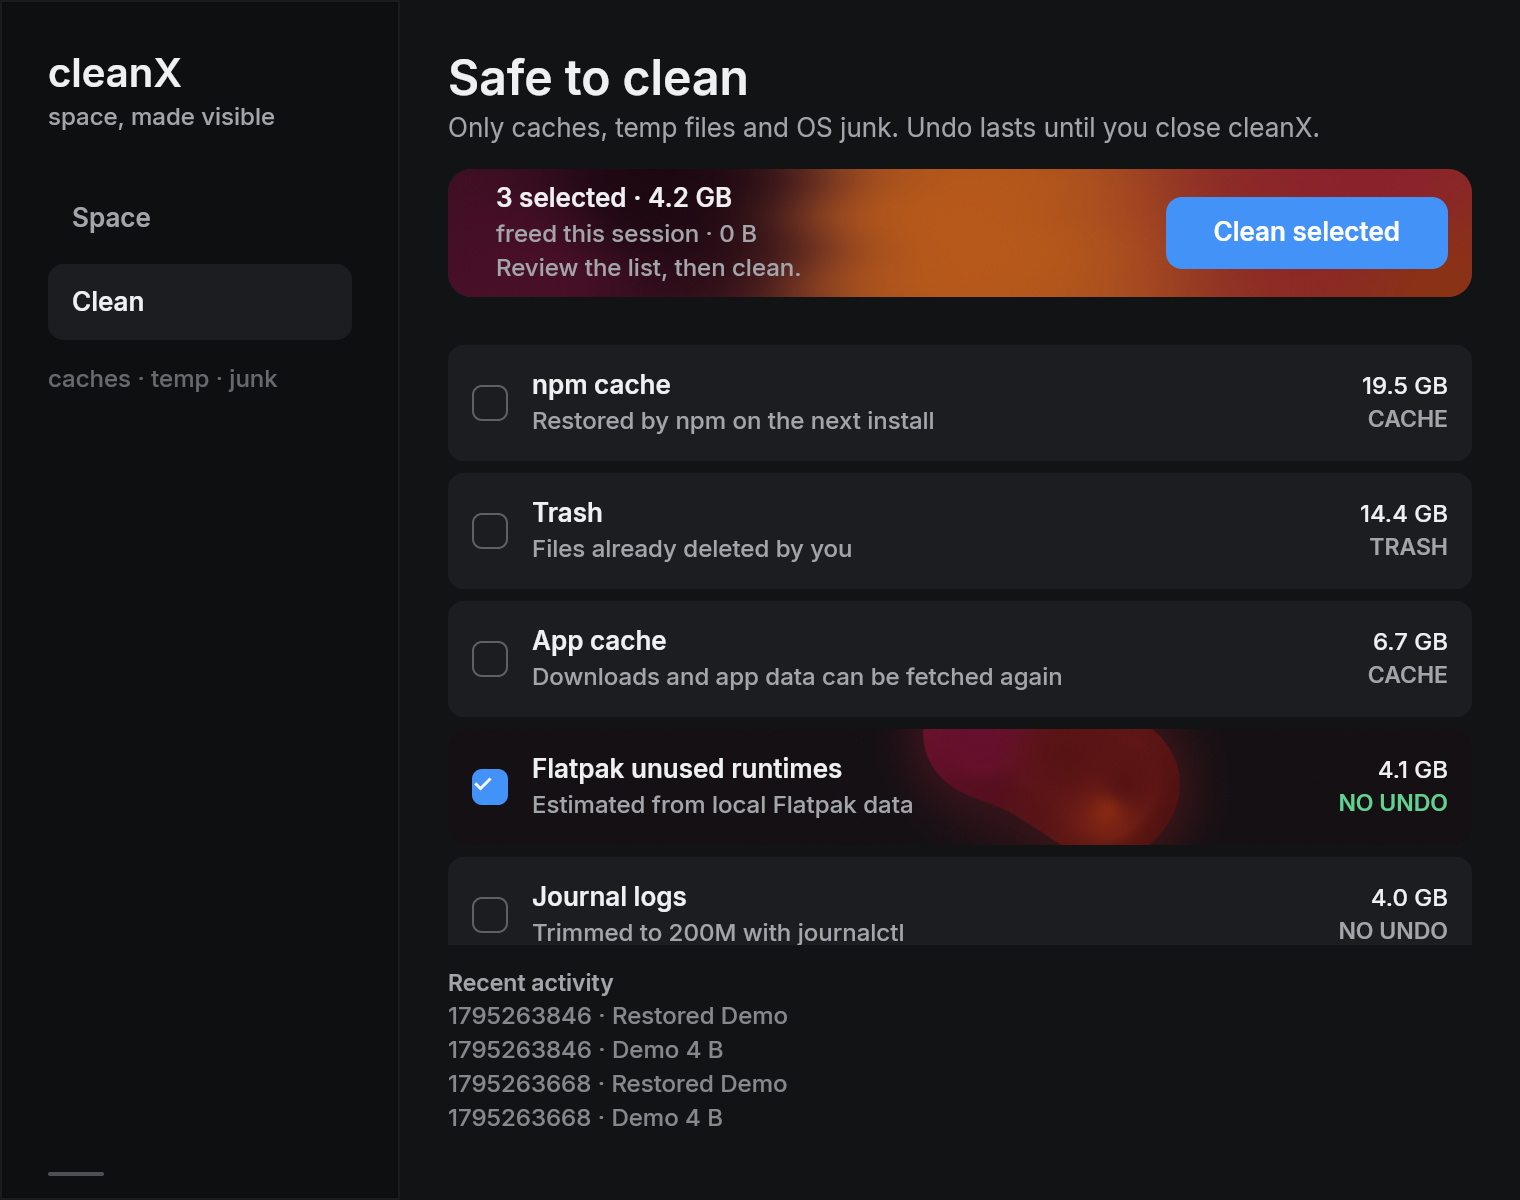
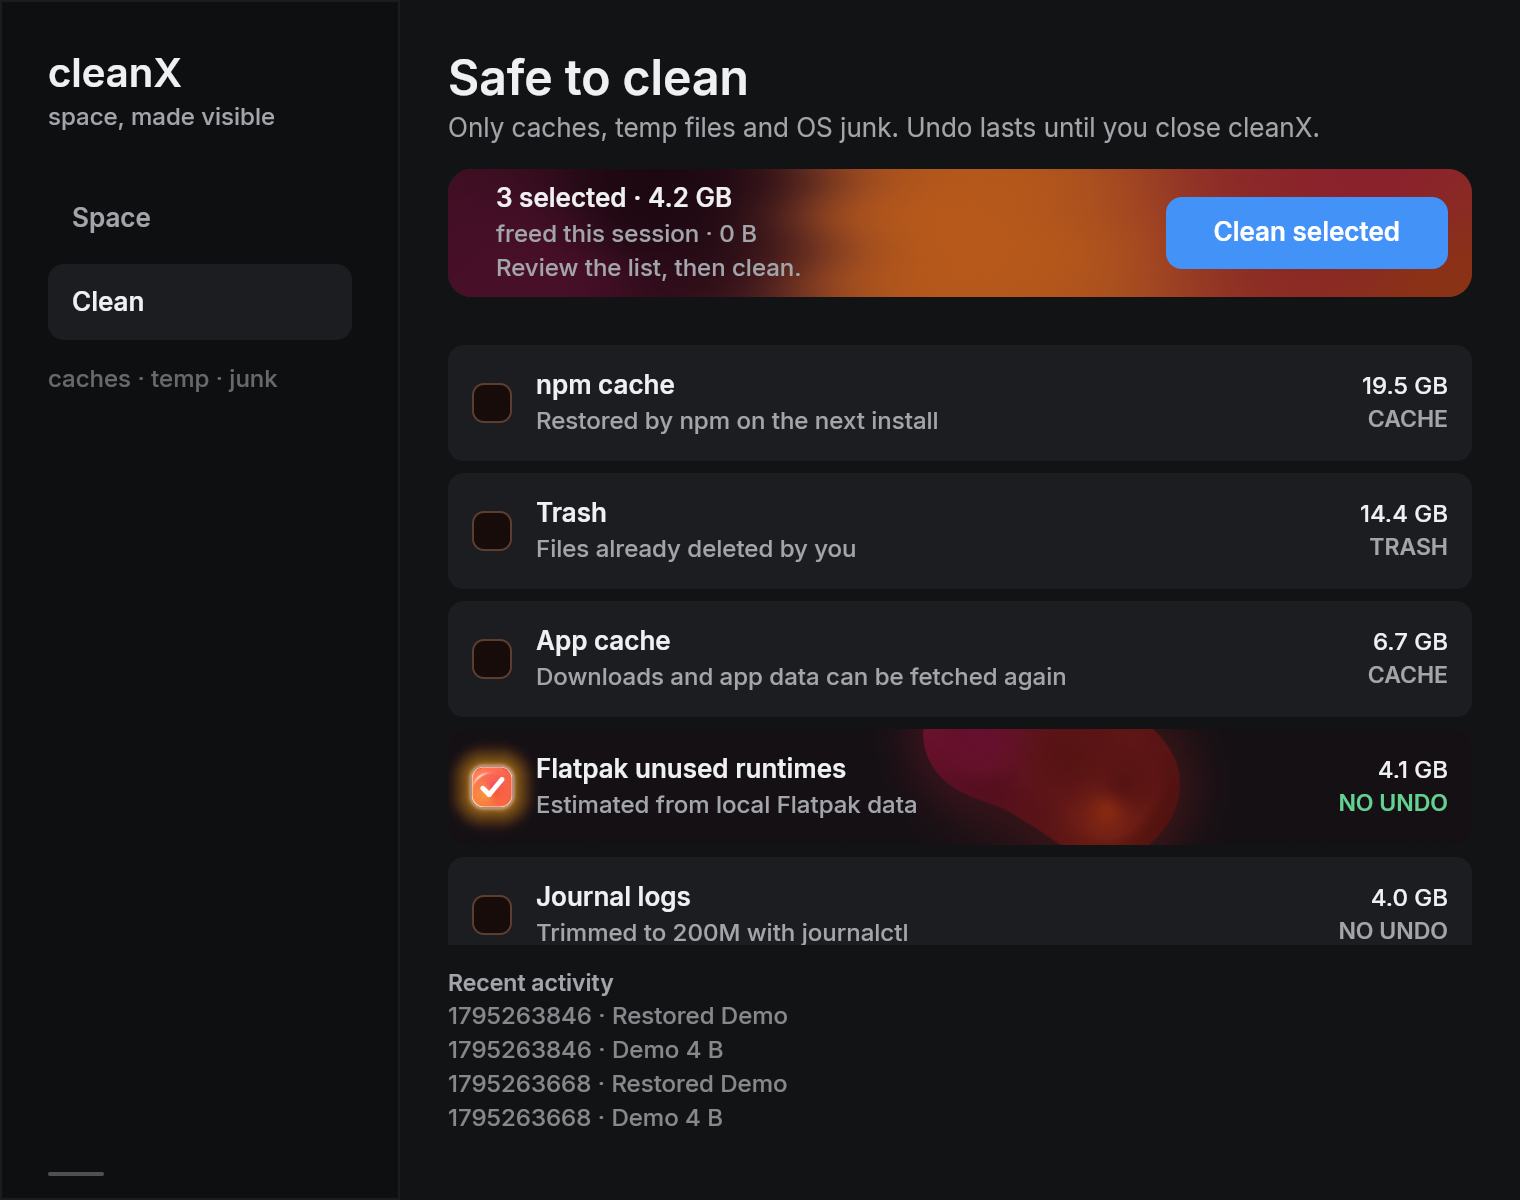
Give clean-list checkboxes a centered lava tick

diff --git a/src/main.rs b/src/main.rs
@@ -8,7 +8,9 @@ mod scan;
 mod session;
 
 use rune::tok::{self, TextStyle, motion, radius, space, type_};
-use rune::{AppSpec, Color, Cx, El, ScrollSpec, Shape, canvas, col, effect, el, oklch, row, text};
+use rune::{
+    AppSpec, Color, Cx, El, LineCap, ScrollSpec, Shape, canvas, col, effect, el, oklch, row, text,
+};
 
 #[derive(Clone, Copy, Debug, PartialEq, Eq)]
 enum Tab {
@@ -106,6 +108,26 @@ fn sunburst(progress: f32, hue: f32) -> Shape {
         );
     }
     shape
+}
+
+/// A vector tick. Centred on the view box so it stays balanced at any size.
+fn checkmark(size: f32, color: Color) -> Shape {
+    Shape::new()
+        .view_box(size, size)
+        .line(
+            [size * 0.27, size * 0.53],
+            [size * 0.43, size * 0.69],
+            size * 0.12,
+            LineCap::Round,
+            color,
+        )
+        .line(
+            [size * 0.43, size * 0.69],
+            [size * 0.75, size * 0.31],
+            size * 0.12,
+            LineCap::Round,
+            color,
+        )
 }
 
 fn view(s: &State, _: &mut Cx<State>) -> El {
@@ -625,6 +647,7 @@ fn clean_view(
                 .fill(card)
                 .hover(secondary.alpha(0.06))
                 .press(secondary.alpha(0.1))
+                .press_scale(0.985)
                 .focusable(true)
                 .on_press(move |s: &mut State| s.session.toggle(i))
                 .child(
@@ -637,26 +660,42 @@ fn clean_view(
                 )
                 .child(
                     el().key("check")
-                        .size(18.0, 18.0)
-                        .radius(5.0)
+                        .size(20.0, 20.0)
+                        .radius(radius::SM)
+                        .center()
                         .fill(if on {
-                            tok::accent(0, true)
+                            oklch(0.45, 0.15, 40.0)
                         } else {
-                            Color::TRANSPARENT
+                            oklch(0.17, 0.02, 35.0)
                         })
                         .border(
                             hair,
                             if on {
-                                tok::accent(0, true)
+                                oklch(0.88, 0.12, 60.0)
                             } else {
-                                secondary.alpha(0.5)
+                                oklch(0.55, 0.07, 45.0).alpha(0.55)
                             },
                         )
                         .child(
-                            text(if on { "✓" } else { "" })
-                                .font(type_::LABEL)
-                                .color(Color::WHITE)
-                                .center(),
+                            fx(gfx::CHECK, [if on { 1.0 } else { 0.0 }, 0.0, 0.0, 0.0])
+                                .key(format!("check-lava-{i}"))
+                                .radius(radius::SM),
+                        )
+                        .child(
+                            fx(gfx::GLOW, [5.0, if on { 0.45 } else { 0.0 }, 0.5, 0.0])
+                                .key(format!("check-glow-{i}"))
+                                .radius(radius::SM)
+                                .effect_bleed(8.0),
+                        )
+                        .child(
+                            canvas(checkmark(
+                                20.0,
+                                Color::WHITE.alpha(if on { 1.0 } else { 0.0 }),
+                            ))
+                            .key(format!("check-mark-{i}"))
+                            .size(20.0, 20.0)
+                            .scale(if on { 1.0 } else { 0.6 })
+                            .scale_motion(motion::POP),
                         ),
                 )
                 .child(
@@ -965,6 +1004,17 @@ mod tests {
         let mut rt = Runtime::new(state, view, (760.0, 600.0), Env::new(true, 1.0));
         rt.frame(0.0);
         assert!(rt.find("confetti").is_some());
+    }
+
+    #[test]
+    fn a_chosen_row_uses_the_lava_checkbox() {
+        let mut state = State::default();
+        state.tab = Tab::Clean;
+        state.session.set_candidates(vec![fake_target()]);
+        let mut rt = Runtime::new(state, view, (760.0, 600.0), Env::new(true, 1.0));
+        rt.frame(0.0);
+        assert!(rt.find("check-lava-0").is_some());
+        assert!(rt.find("check-mark-0").is_some());
     }
 
     #[test]

diff --git a/src/gfx.rs b/src/gfx.rs
@@ -12,6 +12,8 @@ pub const GLOW: u32 = 2;
 pub const FIRE: u32 = 3;
 pub const MESH: u32 = 4;
 pub const SPARK: u32 = 5;
+/// A selected checkbox: a small lava pool under the tick.
+pub const CHECK: u32 = 8;
 /// Row slots start here; the offset gives each row its own mark.
 pub const ROW: u32 = 16;
 
@@ -40,6 +42,9 @@ fn layer(mark: u32, d: [f32; 4], shape: Shape, t: f32) -> Option<FxLayer> {
             ..MetaballParams::lava()
         }),
         GLOW => {
+            if d[1] <= 0.0 {
+                return None;
+            }
             let color = if d[2] > 0.66 {
                 rgb(0xff5a3c)
             } else if d[2] > 0.33 {
@@ -77,6 +82,19 @@ fn layer(mark: u32, d: [f32; 4], shape: Shape, t: f32) -> Option<FxLayer> {
             margin: 24.0,
             burst: Some(d[0]),
         }),
+        CHECK => {
+            if d[0] < 0.5 {
+                return None;
+            }
+            Fx::fill(MetaballParams {
+                colors: Stops::hex(&[0xff5e3a, 0xffa23c, 0xff3d6e]),
+                base: rgb(0x3a1008),
+                count: 3,
+                size: 0.34,
+                speed: 0.5,
+                gloss: 0.6,
+            })
+        }
         _ if kind >= ROW => {
             if d[0] < 0.5 {
                 return None;

diff --git a/README.md b/README.md
@@ -10,7 +10,7 @@ These are real snapshots from the app's headless renderer.
 
 | | |
 | --- | --- |
-| **Free space dashboard**<br>The lava orb warms as the disk fills. Pills switch disks. Scan grows a sunburst.<br>![Space tab](assets/space.png) | **Safe-to-clean list**<br>Caches, temp files and junk with sizes and safety notes.<br>![Clean tab](assets/clean.png) |
+| **Free space dashboard**<br>The lava orb warms as the disk fills. Pills switch disks. Scan grows a sunburst.<br>![Space tab](assets/space.png) | **Safe-to-clean list**<br>Caches, temp files and junk with sizes and safety notes. Selected rows carry a lava tick.<br>![Clean tab](assets/clean.png) |
 | **Two-press safety**<br>The first press arms the action. The second removes the checked rows.<br>![Confirm removal](assets/confirm.png) | **Undo**<br>Path items move to quarantine and restore until you close cleanX.<br>![Undo a clean](assets/undo.png) |
 
 Regenerate them with `cargo run -- --snap assets/space.png` and, for the others, add `--scene clean`, `--scene confirm` or `--scene undo`.
